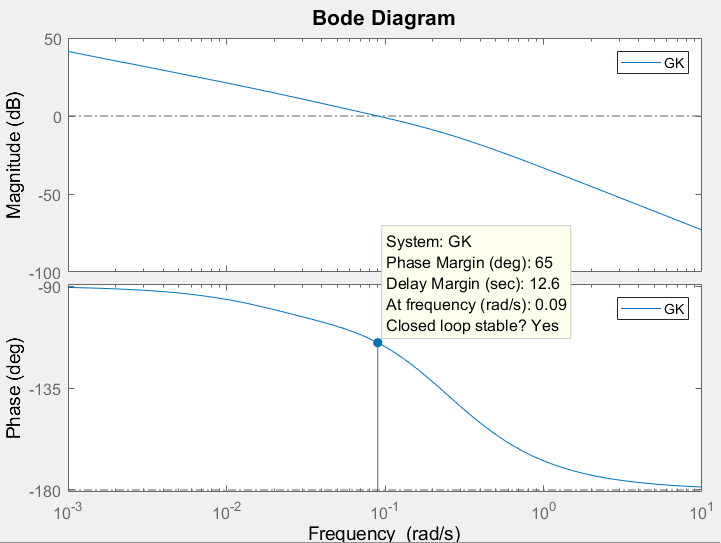
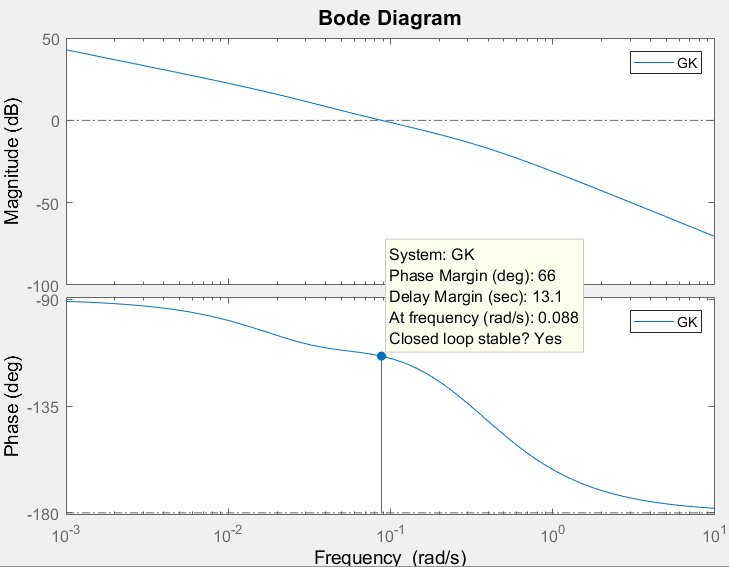
Lab3 - Inför rapport

diff --git a/Lab3/PIDdesign.m b/Lab3/PIDdesign.m
@@ -7,9 +7,9 @@
 % * Fasvridning i wc (phiGPwc [rad])
 
 %% Designparametrar
-wc = 0.09;
-Phim = 65*(pi/180);
-K8 = 4.5;
+wc = 0.088;             % 0.088 Ursprunligen: 0.07
+Phim = 66*(pi/180);     % 66    Ursprunligen: 30   
+K8 = 6;                 % 4.5   Ursprunligen: 4.5
 
 %% Processparametrar
 K1 = 5.41;
